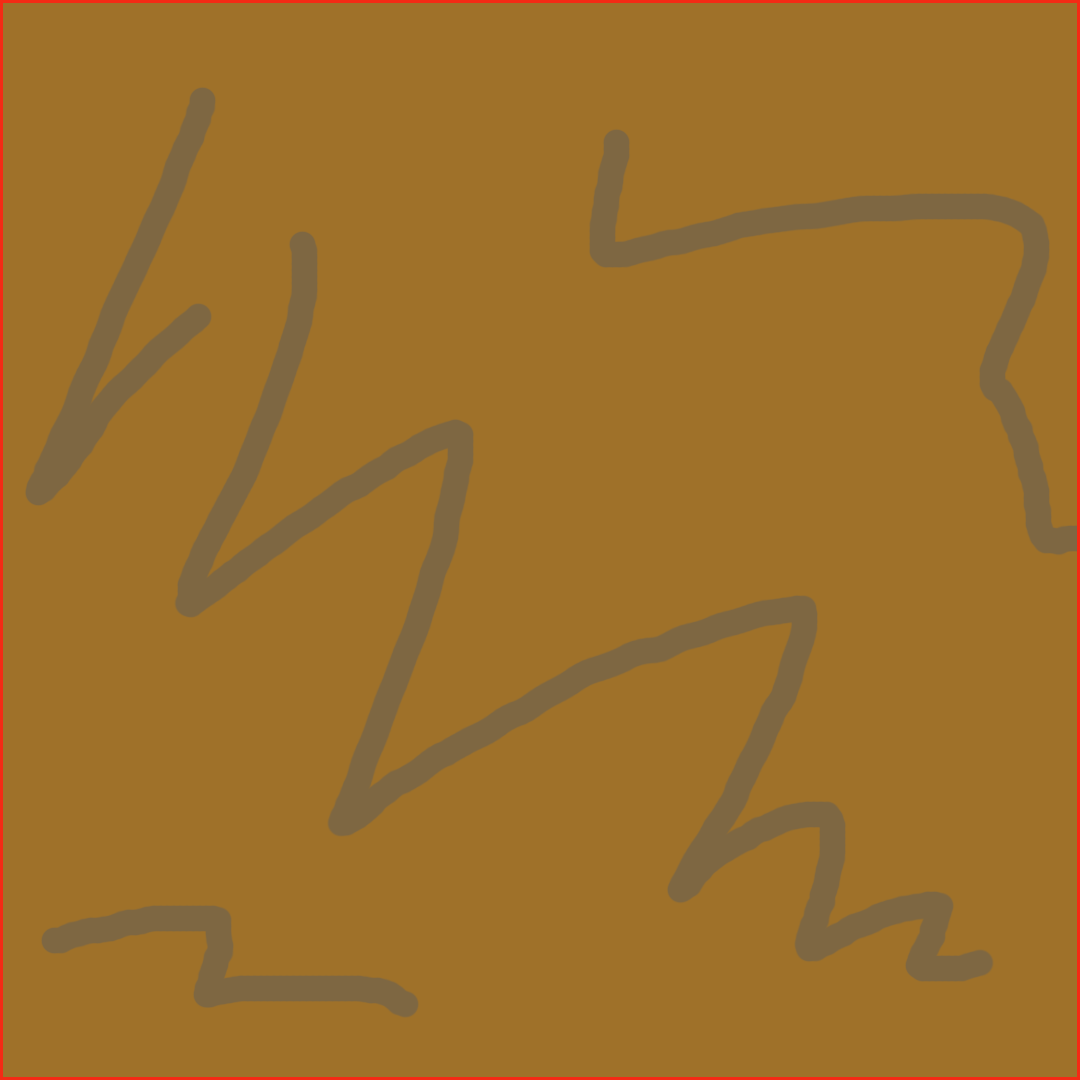
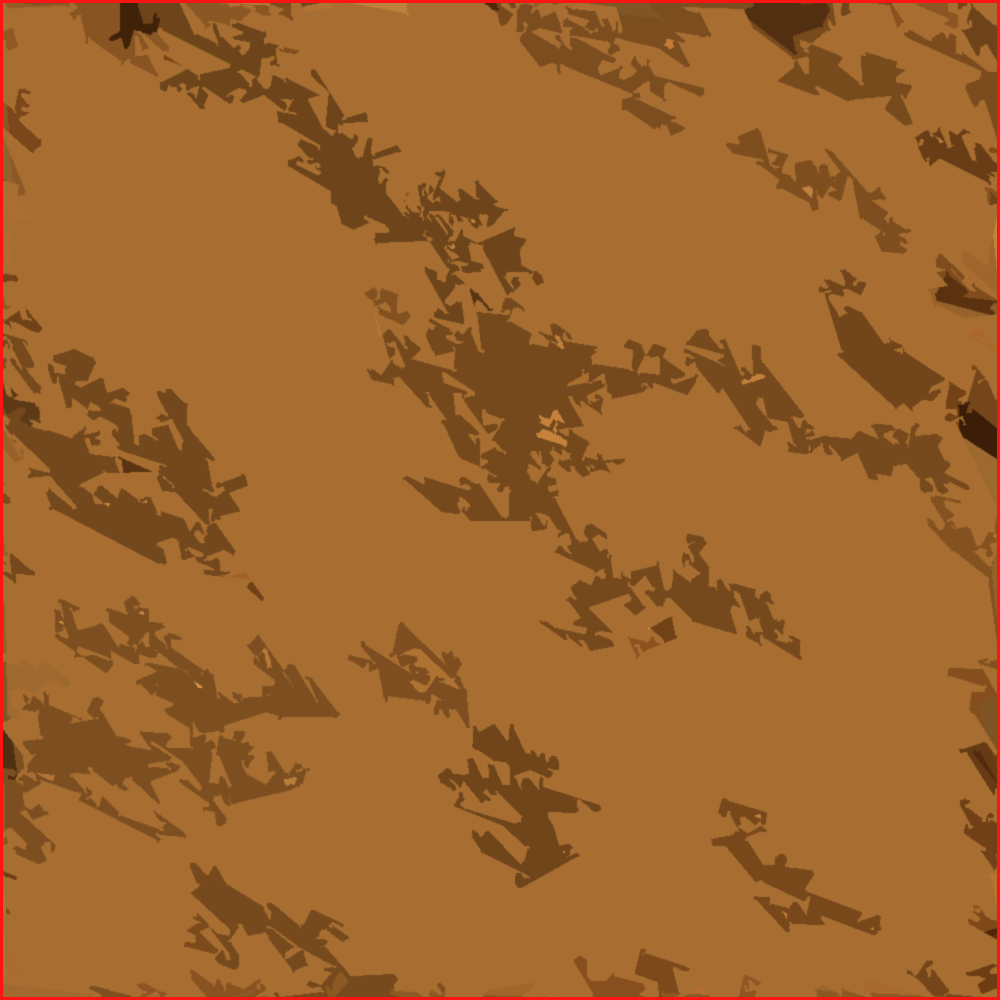
Add T-34-85 and modify backgournd image

diff --git a/TANK/Enemy.cpp b/TANK/Enemy.cpp
@@ -62,7 +62,7 @@ bool Enemy::checkShotHit(Game* game) {
 
 T3485::T3485() {
 	hp = 10;
-	radius = 35.0;
+	radius = 30.0;
 	minimapColor = Palette::Red;
 	turnRad = Radians(3.0);
 }
@@ -70,9 +70,6 @@ T3485::T3485() {
 void T3485::move(Game* game) {
 	Super::move(game);
 	if (state == State::Burn) return;
-	if (state == State::Normal) {
-		color = Palette::Yellow;
-	}
 
 	const Vec2 playerPos = game->getPlayer()->getPos();
 	const double sp = 3.0;
@@ -105,9 +102,8 @@ void T3485::draw(Game* game) {
 		explosionAnimation->draw(screenPos);
 		return;
 	}
-	TextureAsset(L"playerTank").rotate(radian + Pi/2).drawAt(screenPos, color);
-	TextureAsset(L"turret").rotate(turretRad + Pi/2).drawAt(screenPos, color);
-	//Circle(screenPos, radius).draw(Palette::Red);
+	TextureAsset(L"T-34-85").rotate(radian + Pi/2).drawAt(screenPos, color);
+	TextureAsset(L"T-34-85_turret").rotate(turretRad + Pi/2).drawAt(screenPos, color);
 }
 
 MissileLauncher::MissileLauncher() {

diff --git a/TANK/Game.cpp b/TANK/Game.cpp
@@ -9,13 +9,14 @@ void Game::init() {
 	TextureAsset::Register(L"turret", L"dat/turret.png");
 	TextureAsset::Register(L"bullet", L"dat/bullet.png");
 	TextureAsset::Register(L"backGround", L"dat/background.png");
-	TextureAsset::Register(L"technyan", L"dat/technyan.png");
 	TextureAsset::Register(L"explosion", L"dat/explosion.png");
 	TextureAsset::Register(L"missile", L"dat/missile.png");
 	TextureAsset::Register(L"missile_lancher", L"dat/missile_launcher.png");
 	TextureAsset::Register(L"marker", L"dat/marker.png");
 	TextureAsset::Register(L"title", L"dat/title.png");
 	TextureAsset::Register(L"gameOver", L"dat/gameover.png");
+	TextureAsset::Register(L"T-34-85", L"dat/T-34-85.png");
+	TextureAsset::Register(L"T-34-85_turret", L"dat/T-34-85_turret.png");
 	SoundAsset::Register(L"shoot", L"dat/shoot.wav");
 	SoundAsset::Register(L"missile_shoot", L"dat/missile_shoot.wav");
 	SoundAsset::Register(L"hit", L"dat/hit.wav");
